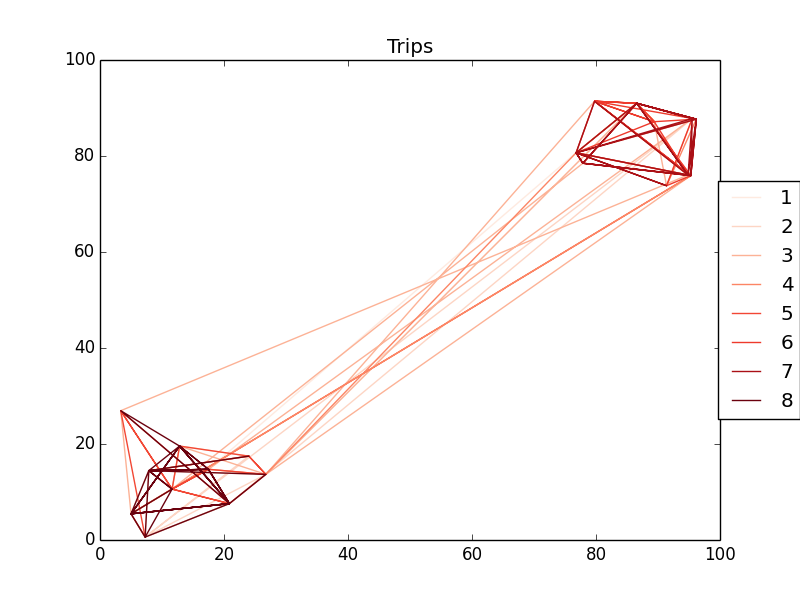
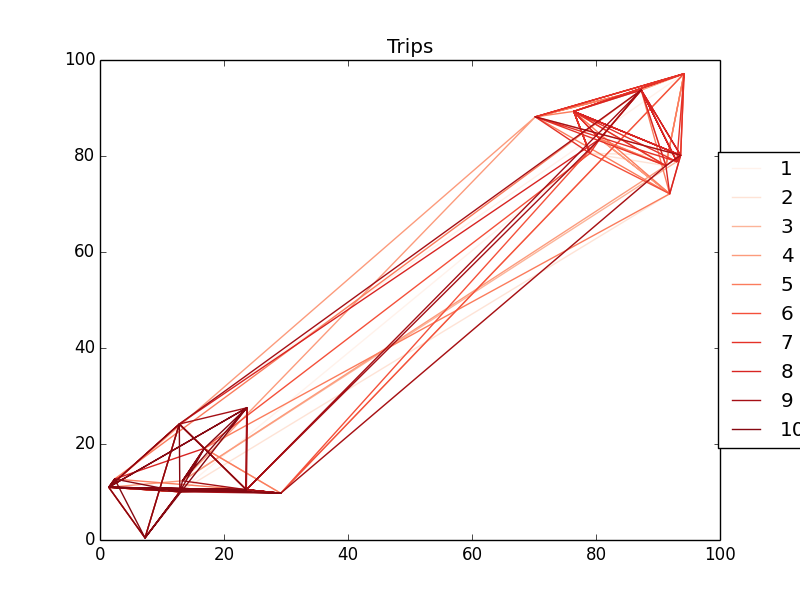
GA 온라인

diff --git a/GAOperator.py b/GAOperator.py
@@ -6,11 +6,11 @@ import random
 import copy
 
 class GAOperator:
-    def __init__(self, DG, initial, normR, ns = 25, offP = 0.5, off = False):
+    def __init__(self, DG, initial, normR, onlR, ns = 25, off = False):
         self.genes = []
         self.costs = []
         self.normR = normR
-        self.On = int(DG.n - DG.n*offP)
+        self.onlR = onlR
 
         Ngene = 1000 # the number of genes
         Nggene = 20 # the number of genes which can survive
@@ -49,7 +49,8 @@ class GAOperator:
             print("initial is shit!")
 
         else :
-            print('{} : initial'.format(len(self.genes[0].rejects)-self.On))
+            print('*Processing offline requests in GA* (online : {})'.format(self.onlR))
+            print('{} : initial'.format(len(self.genes[0].rejects)))
             for i in range(Nstep):
 
                 print("step {idx} is running".format(idx = i+1))
@@ -84,11 +85,11 @@ class GAOperator:
                         del self.genes[j]
                 self.costs.append(DG.getCostGA(self.genes[0]))
                 if(self.costs[i] > self.costs[i+1]) :
-                    print("{}% improved | {}".format((1-(self.costs[i+1]/self.costs[i]))*100, len(self.genes[0].rejects)-self.On))
+                    print("{}% improved | {}".format((1-(self.costs[i+1]/self.costs[i]))*100, len(self.genes[0].rejects)))
 
                     # when better than the norm, stop generating
-                if(len(self.genes[0].rejects)-self.On <= self.normR) :
-                    print("better than norm".format(len(self.genes[0].rejects)-self.On))
+                if(len(self.genes[0].rejects) <= self.normR) :
+                    print("better than norm".format(len(self.genes[0].rejects)))
                     break
 
         print("\nresults.....")
@@ -123,7 +124,7 @@ class GAOperator:
                 if k != None:
                     trips[i] = k[:]
                     break
-        return Chromosome(chromo.reqN, trips)
+        return Chromosome(DG.n, trips)
 
     def getResult(self):
         return self.genes[0].trips

diff --git a/Chromosome.py b/Chromosome.py
@@ -16,8 +16,13 @@ class Chromosome:
         self.rejects.sort()
 
     def __str__(self):
+        wholetrip = []
+        for trip in self.trips:
+            wholetrip += trip
+        self.reqN = len(wholetrip) + len(self.rejects)
+
         ret = "--------------------"
-        ret += "Accepted: {a}, Rejected: {r}, Reject Ratio: {rr}\n".format(a = self.reqN - len(self.rejects), r = len(self.rejects), rr = len(self.rejects) / self.reqN)
+        ret += "{w} Accepted: {a}, Rejected: {r}, Reject Ratio: {rr}\n".format(w = self.reqN, a = len(self.wholetrip)//2, r = len(self.rejects), rr = len(self.rejects)/self.reqN)
         for idx, trip in enumerate(self.trips):
             ret += "Shuttle {i}: {t}\n".format(i = idx, t = trip)
         ret += "Rejected: {r}\n".format(r = self.rejects)

diff --git a/Simulator.py b/Simulator.py
@@ -35,7 +35,8 @@ class Simulator:
         return ret
 
     def GAINIT(self, off):
-        GAOP = GAOperator(self.DG, 'LLF', 0, self.gaN, self.offP, off)
+        onlR = int(self.n*(1-self.offP))
+        GAOP = GAOperator(self.DG, 'LLF', 0, onlR, self.gaN, off)
         trips = GAOP.getResult()
         shuttles =[]
         for trip in trips:

diff --git a/DataGenerator.py b/DataGenerator.py
@@ -131,7 +131,7 @@ class DataGenerator:
         return [True, slack/(t-t0)]
 
     def getCost(self, schedule):
-        # 2.0*n : not able Shuttle
+        # 2.0*n : impossible Shuttle
         # 1.0 : index_r > index_-r
         # 0.01 : duplicate
         totSlack = self.n
